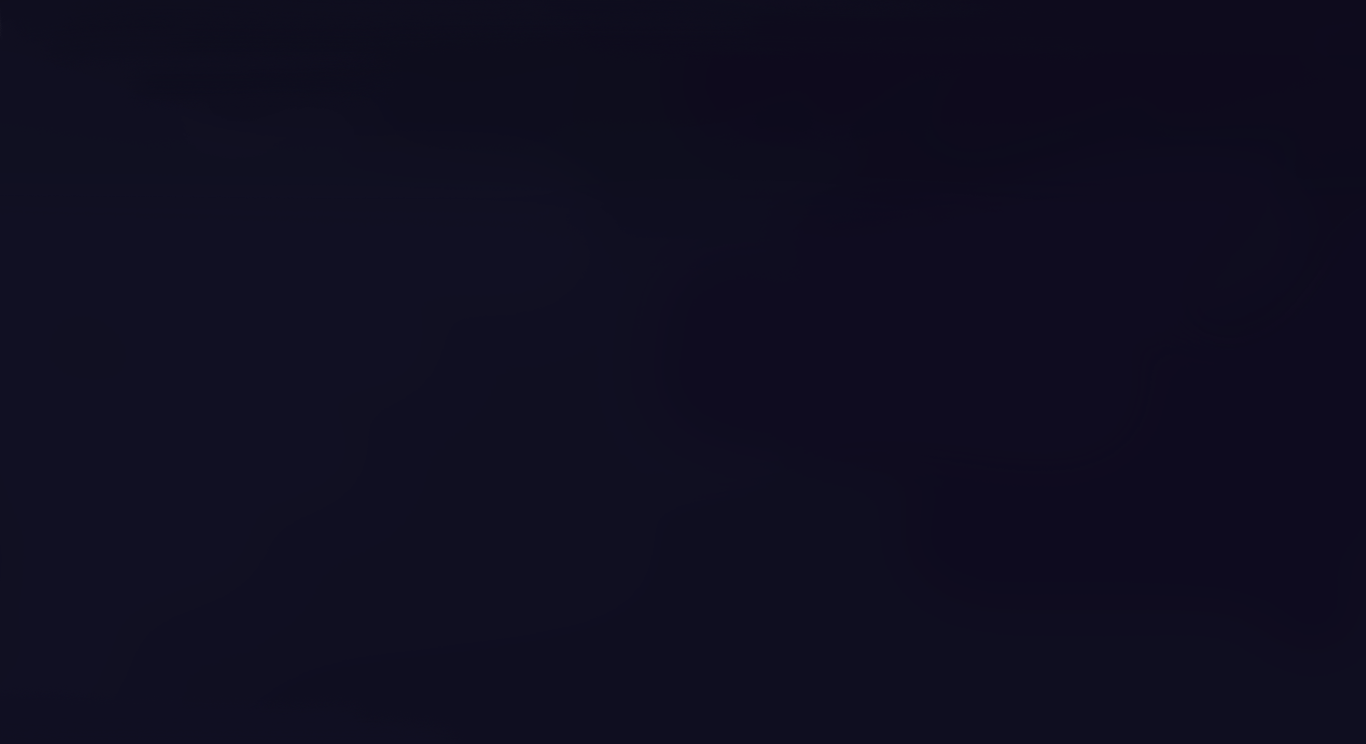
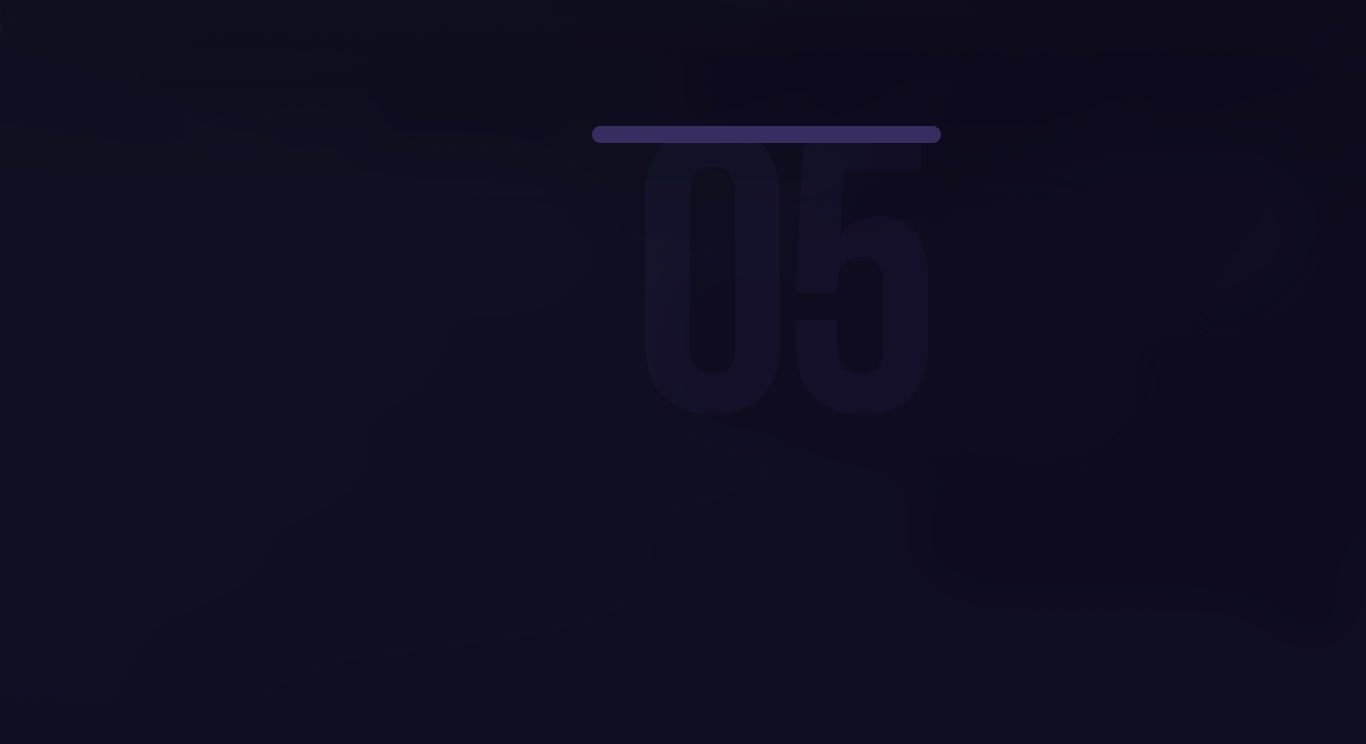
changed background(person) and adds foto

Changed region(s): [[0.4305, 0.1546, 0.7072, 0.2164]]

diff --git a/index.html b/index.html
@@ -293,22 +293,14 @@
               <h2 class='heading-2'>Подготовка личного состава</h2>
             </div>
 
-            <div class='container'>
-              <div class='row'>
-                <div class='col'>
-                  <div class='d-flex person-icon'>
-                    <a href='#'>
-                      <img src='img/icon/icon-youtube-clients.png' alt='YouTube'>
-                    </a>
-                  </div>
-                </div>
-                <div class='col'>
-                  <div class='d-flex flex-column person-content'>
-                    <div class='bodyguard-foto'>
-                      <img src='#' alt='foto'>
-                    </div>
-                  </div>
-                </div>
+            <div class='d-flex flex-row person-content'>
+              <div class='d-flex person-icon'>
+                <a href='#'>
+                  <img src='img/icon/icon-youtube-clients.png' alt='YouTube'>
+                </a>
+              </div>
+              <div class='d-flex person-foto'>
+                <img src='img/foto/foto-person.png' alt='foto'>
               </div>
             </div>
           </div>

diff --git a/styles.css b/styles.css
@@ -428,6 +428,9 @@ html, body {
   justify-content: center;
   align-items: center;
 }
+.person-foto {
+  width: 455px;
+}
 /*Partners*/
 .container-wrap-partners {
   max-width: 1366px;
